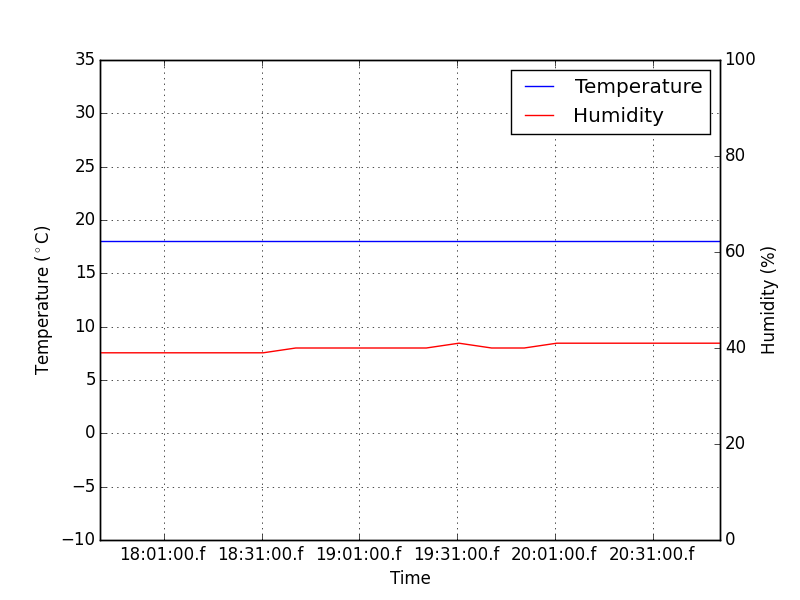
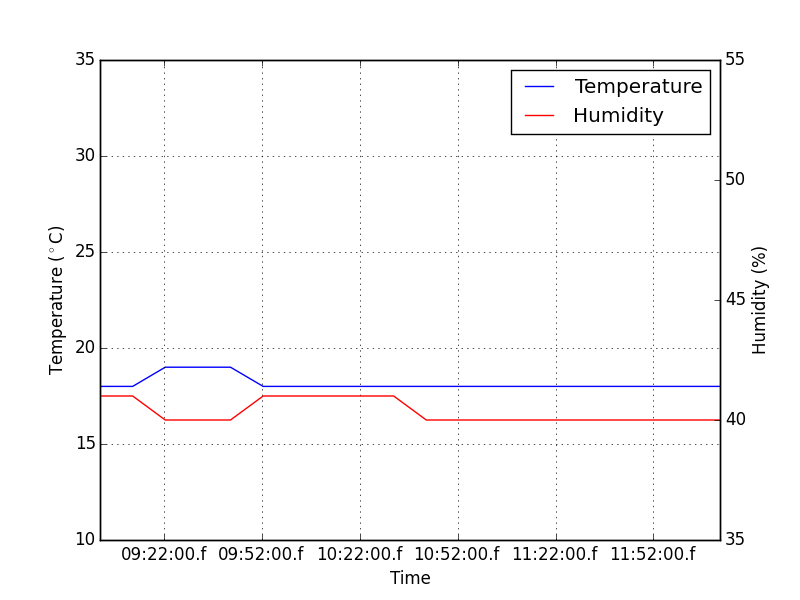
0.2.4
0.2.4

diff --git a/app/templates/temperature.html b/app/templates/temperature.html
@@ -4,6 +4,7 @@
 
 {% block page_content %}
 
+	<meta http-equiv="refresh" content="15">
     <h1>PDomoCla - Temperature</h1>
     <img src="static/temperature/temperature.png" class="img-responsive">
     <p>This page can only be viewed by logged in users.</p>

diff --git a/app/graph.py b/app/graph.py
@@ -45,7 +45,7 @@ def graph():
     ax.set_xlabel("Time")
     ax2.set_ylabel(r"Humidity (%)")
     ax.set_ylabel(r"Temperature ($^\circ$C)")
-    ax2.set_ylim(0, 100)
-    ax.set_ylim(-10,35)
-    plt.savefig('static/temperature/temperature.jpg')
+    ax2.set_ylim(35, 55)
+    ax.set_ylim(10,35)
+    plt.savefig('app/static/temperature/temperature.png')
     #plt.show()
